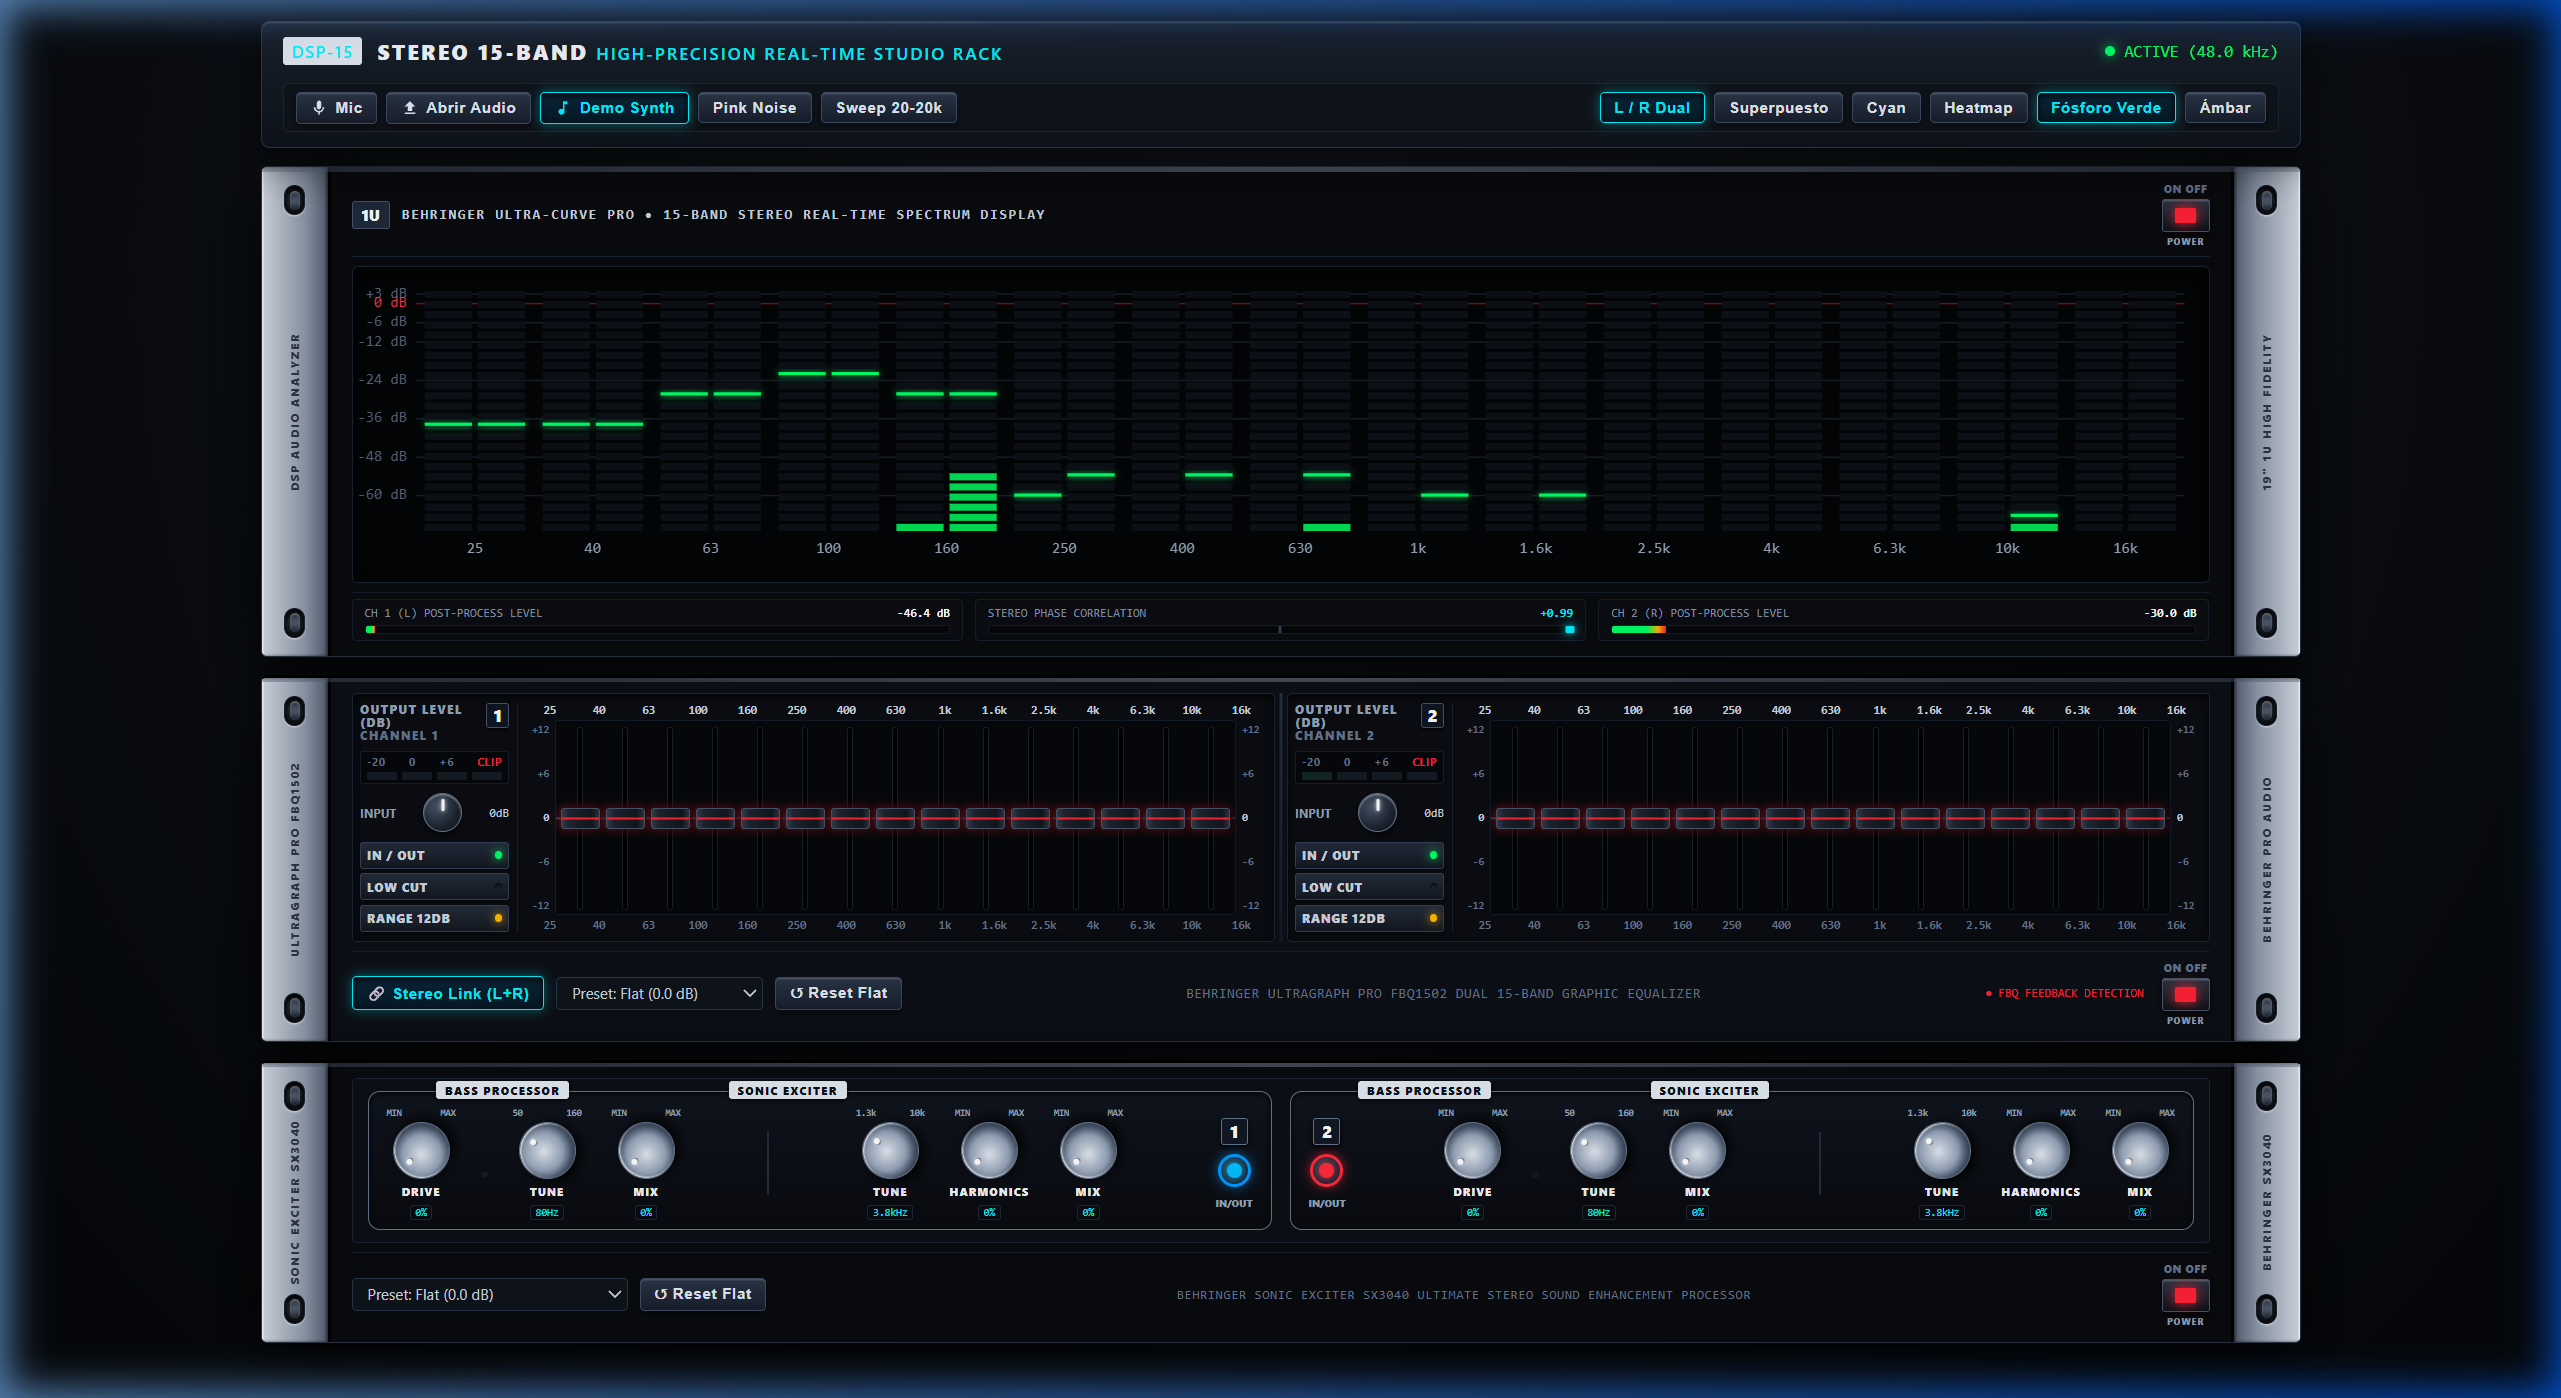
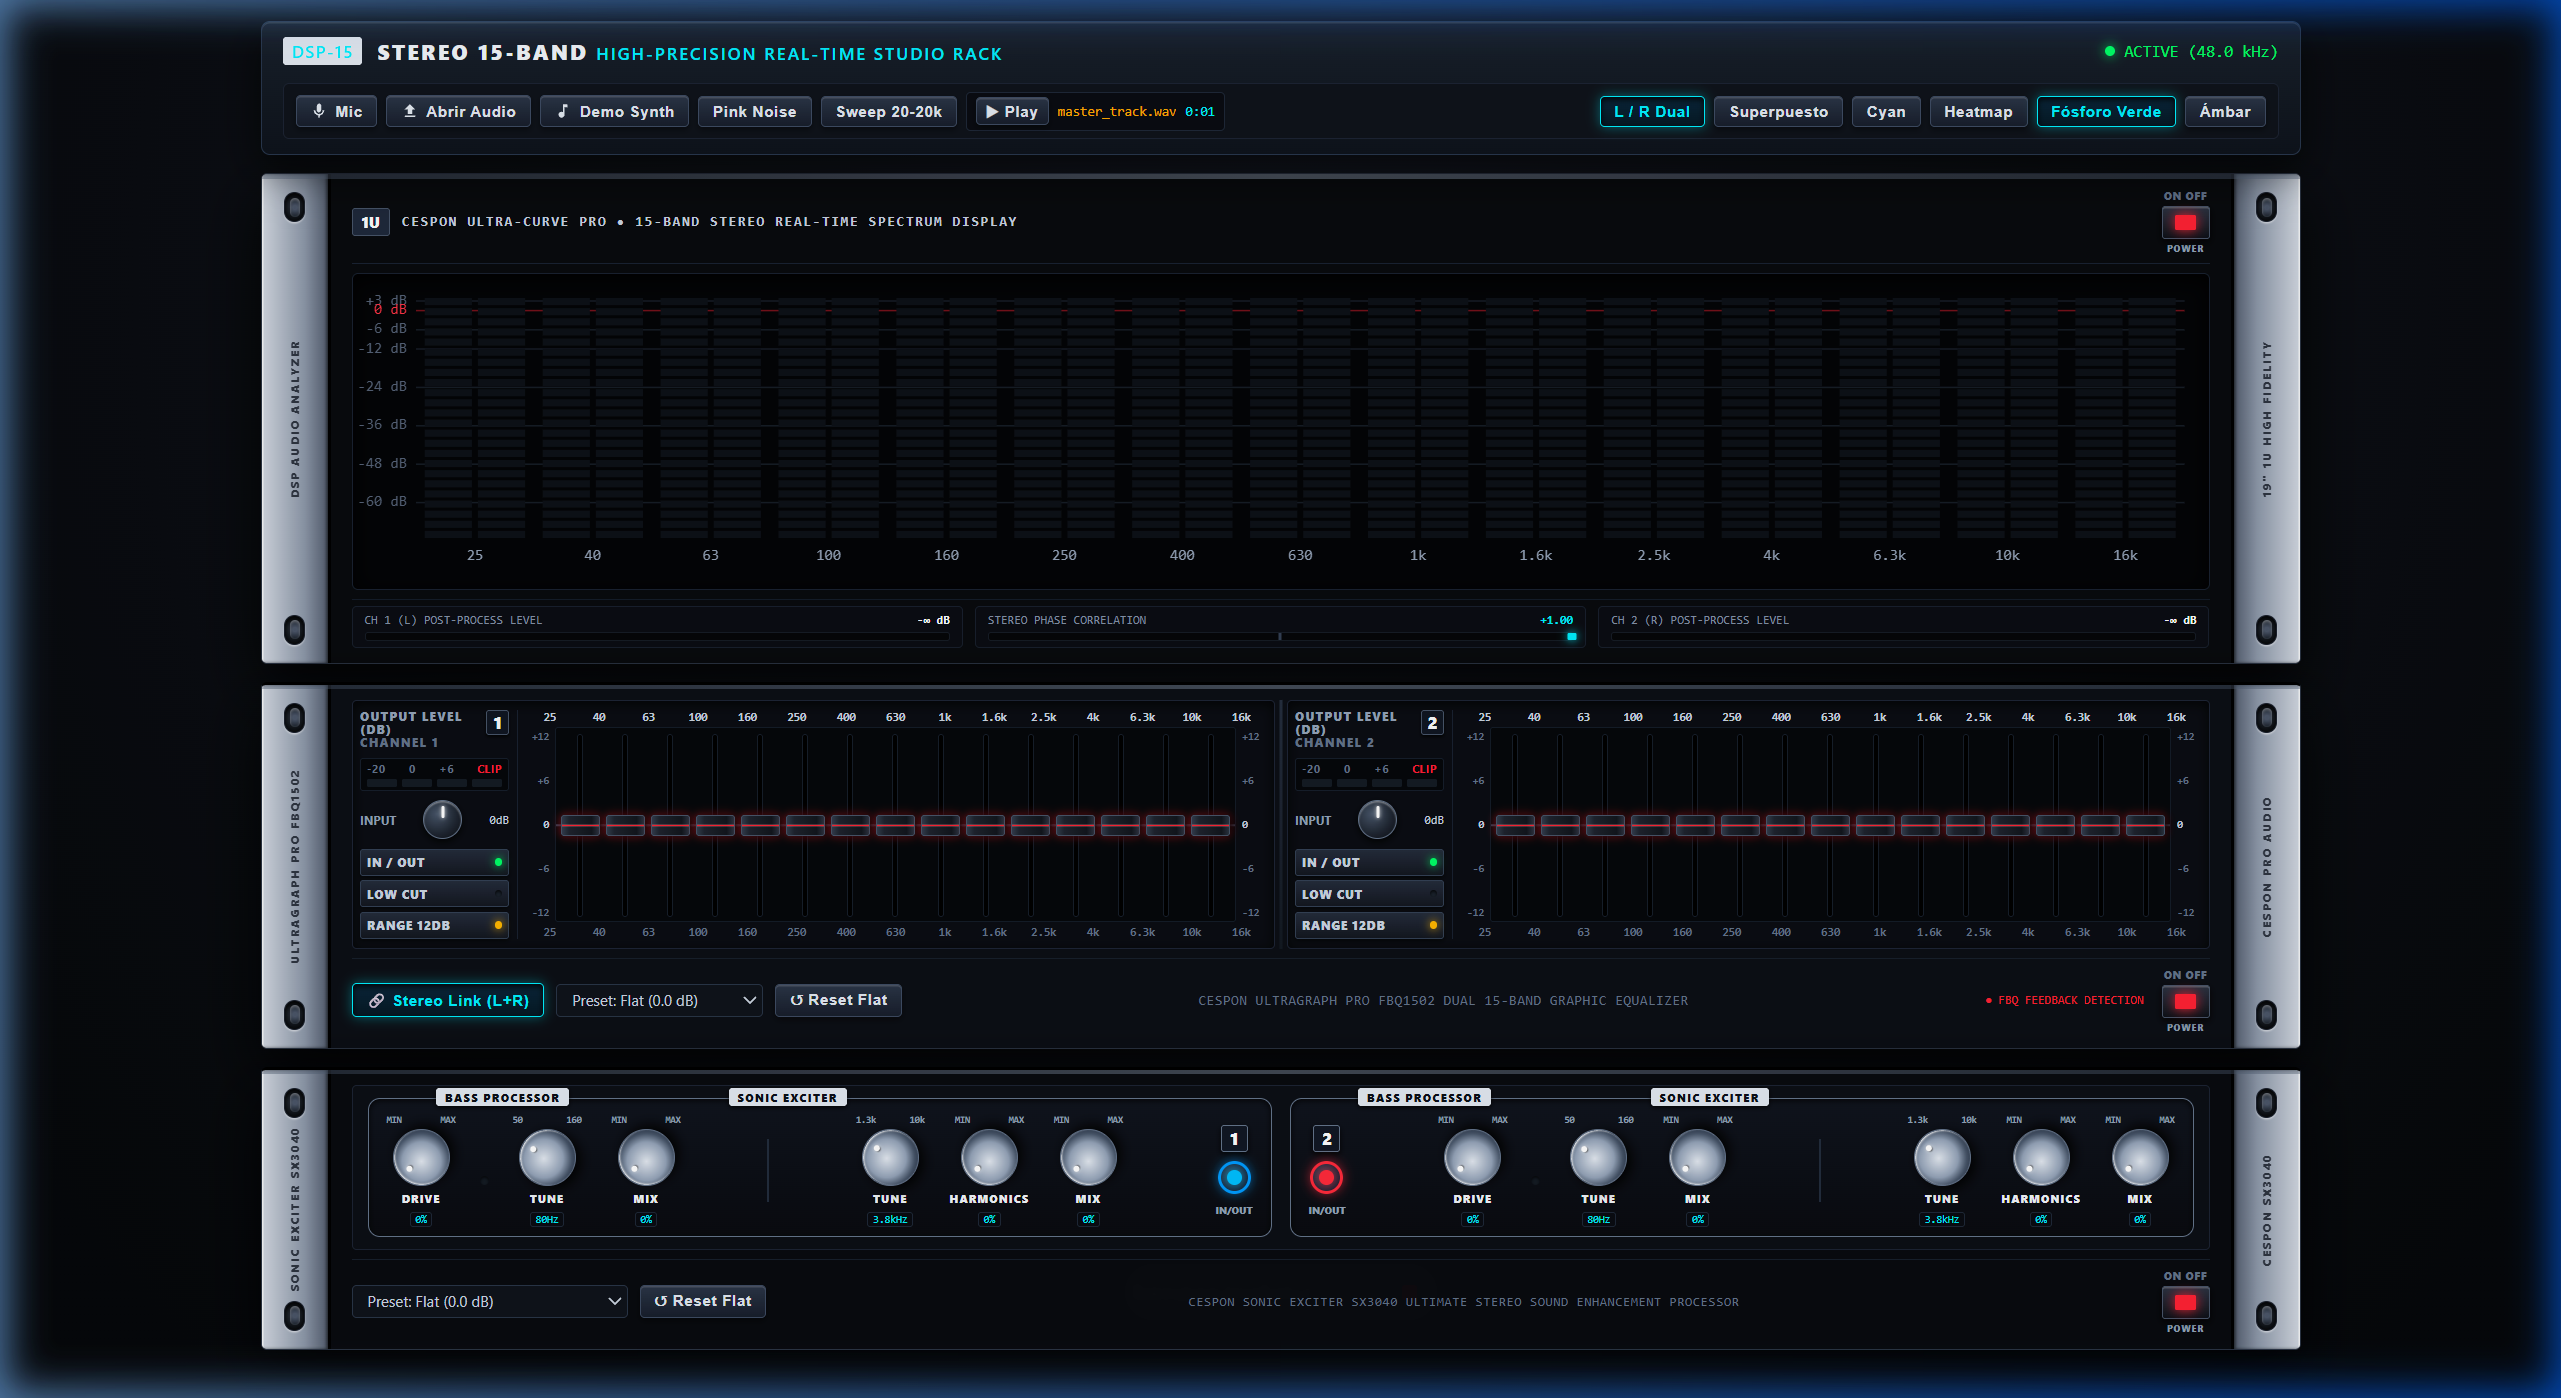
feat: rebrand to Cespon and prevent auto-play on audio load

diff --git a/index.html b/index.html
@@ -691,7 +691,7 @@
     }
 
     /* =======================================================
-       UNIT 3: BEHRINGER SONIC EXCITER SX3040
+       UNIT 3: CESPON SONIC EXCITER SX3040
        ======================================================= */
     .exciter-faceplate {
       display: grid;
@@ -1039,7 +1039,7 @@
         <div style="display: flex; align-items: center; gap: 8px;">
           <span style="font-size: 10px; font-weight: 900; color: #fff; background: #1e293b; padding: 2px 6px; border-radius: 2px; border: 1px solid #475569;">1U</span>
           <span style="font-family: var(--font-mono); font-size: 9.5px; font-weight: 800; color: #cbd5e1; letter-spacing: 1px;">
-            BEHRINGER ULTRA-CURVE PRO • 15-BAND STEREO REAL-TIME SPECTRUM DISPLAY
+            CESPON ULTRA-CURVE PRO • 15-BAND STEREO REAL-TIME SPECTRUM DISPLAY
           </span>
         </div>
         <div class="power-switch-section">
@@ -1217,7 +1217,7 @@
         </div>
 
         <div style="font-family: var(--font-mono); font-size: 9px; color: #64748b; letter-spacing: 0.5px;">
-          BEHRINGER ULTRAGRAPH PRO FBQ1502 DUAL 15-BAND GRAPHIC EQUALIZER
+          CESPON ULTRAGRAPH PRO FBQ1502 DUAL 15-BAND GRAPHIC EQUALIZER
         </div>
 
         <div style="display: flex; align-items: center; gap: 12px;">
@@ -1235,14 +1235,14 @@
 
     <div class="rack-ear right">
       <div class="rack-bolt-hole"></div>
-      <div class="ear-brand-text" style="font-size: 7.5px;">BEHRINGER PRO AUDIO</div>
+      <div class="ear-brand-text" style="font-size: 7.5px;">CESPON PRO AUDIO</div>
       <div class="rack-bolt-hole"></div>
     </div>
   </div>
 
 
   <!-- ========================================================
-       UNIT 3 (BOTTOM): BEHRINGER SONIC EXCITER SX3040
+       UNIT 3 (BOTTOM): CESPON SONIC EXCITER SX3040
        ======================================================== -->
   <div class="rack-unit" id="unitExciter" style="border-top: 2px solid #000;">
     <div class="rack-top-bevel"></div>
@@ -1419,7 +1419,7 @@
         </div>
 
         <div style="font-family: var(--font-mono); font-size: 8.5px; color: #64748b; letter-spacing: 0.5px;">
-          BEHRINGER SONIC EXCITER SX3040 ULTIMATE STEREO SOUND ENHANCEMENT PROCESSOR
+          CESPON SONIC EXCITER SX3040 ULTIMATE STEREO SOUND ENHANCEMENT PROCESSOR
         </div>
 
         <div class="power-switch-section">
@@ -1434,7 +1434,7 @@
 
     <div class="rack-ear right">
       <div class="rack-bolt-hole"></div>
-      <div class="ear-brand-text" style="font-size: 7.5px;">BEHRINGER SX3040</div>
+      <div class="ear-brand-text" style="font-size: 7.5px;">CESPON SX3040</div>
       <div class="rack-bolt-hole"></div>
     </div>
   </div>
@@ -2276,15 +2276,25 @@
     audioElement.src = URL.createObjectURL(file);
     if (!audioSourceNode) audioSourceNode = audioCtx.createMediaElementSource(audioElement);
     audioSourceNode.connect(masterGain);
-    audioElement.play();
     playerBar.classList.add('active');
     audioFileName.textContent = file.name;
-    btnPlayPause.textContent = '⏸';
+    timeDisplay.textContent = '0:00';
+    btnPlayPause.textContent = '▶ Play';
     activeMode = 'file';
   }
   btnPlayPause.addEventListener('click', () => {
-    if (audioElement.paused) { audioElement.play(); btnPlayPause.textContent = '⏸'; }
-    else { audioElement.pause(); btnPlayPause.textContent = '▶'; }
+    initAudio();
+    if (audioElement.paused) {
+      audioElement.play();
+      btnPlayPause.textContent = '⏸ Pause';
+      activeMode = 'file';
+    } else {
+      audioElement.pause();
+      btnPlayPause.textContent = '▶ Play';
+    }
+  });
+  audioElement.addEventListener('ended', () => {
+    btnPlayPause.textContent = '▶ Play';
   });
   audioElement.addEventListener('timeupdate', () => {
     const mins = Math.floor(audioElement.currentTime / 60);

diff --git a/README.md b/README.md
@@ -49,7 +49,7 @@ Inspirado en analizadores de hardware de estudio profesional:
 
 ---
 
-### 3. Unidad 2 (Intermedia): Behringer ULTRAGRAPH PRO FBQ1502 (1U)
+### 3. Unidad 2 (Intermedia): Cespon ULTRAGRAPH PRO FBQ1502 (1U)
 Ecualizador gráfico estéreo dual de 15 bandas de precisión:
 - **Doble bloque simétrico (Channel 1 L & Channel 2 R)**:
   - 30 Faders deslizantes con el característico **LED rojo iluminado en la perilla** (estilo FBQ).
@@ -66,7 +66,7 @@ Ecualizador gráfico estéreo dual de 15 bandas de precisión:
 
 ---
 
-### 4. Unidad 3 (Inferior): Behringer SONIC EXCITER SX3040 (1U)
+### 4. Unidad 3 (Inferior): Cespon SONIC EXCITER SX3040 (1U)
 Procesador definitivo de enriquecimiento y restauración sonora estéreo:
 - **Arquitectura Analógica Dual con Filete Blanco Curvo**:
   - **BASS PROCESSOR**:
